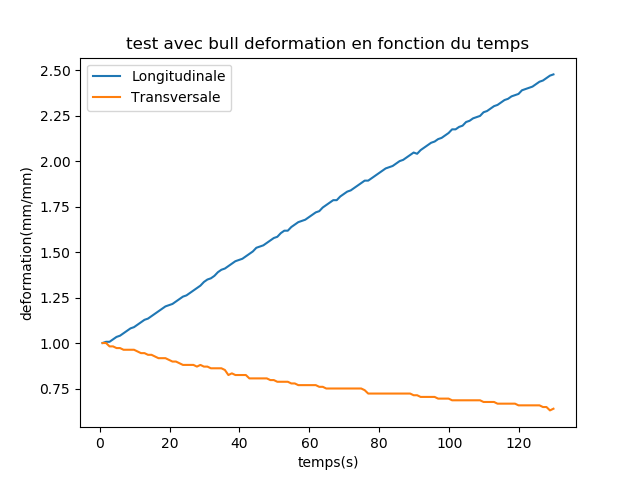
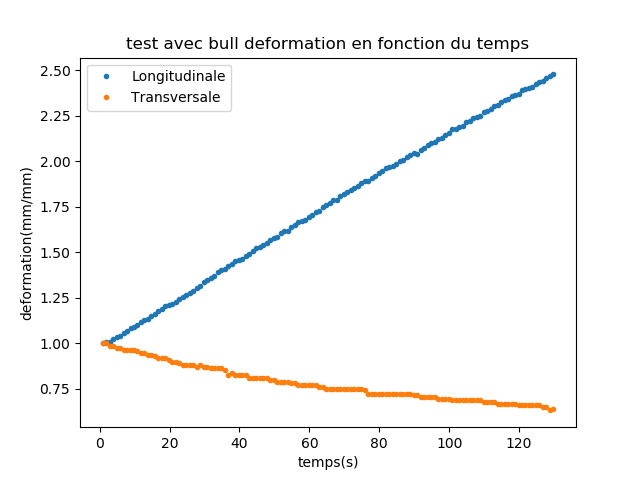
null

diff --git a/utils.py b/utils.py
@@ -32,7 +32,7 @@ config2 = {
     'seuil': 120,
     'path_distance': 'data/avec bulle_distance.csv'
 }
-config = config2
+config = config1
 name = config['name']
 path = config['path']
 path_save = config['path_save']
@@ -42,6 +42,8 @@ ratio_max = config['ratio_max']
 padding_max = config['padding']
 seuil_max = config['seuil']
 path_distance = config['path_distance']
+
+
 def get_data(path):
     data = pd.read_csv(path, sep=',')
     return data
@@ -68,48 +70,20 @@ def generate_gif(path, path_save):
 
 
 def optimize_func(f, x, y):
-    """
-    optimization d'une function
-    :param f: function, la function a fit
-    :param x: np.array, les variables de distances
-    :param y: np.array, les tensions
-    :return:
-    """
     popt, pcov = curve_fit(f, x, y)
     a, b, c, d, e = popt
     return f(x, a, b, c, d, e)
 
 
 def func_D_S(x, a, b, c, d, e):
-    """
-    la function a fit
-    :param x: np.array, les variables de distances
-    :param a: float, coefficient
-    :param b: float, coefficient
-    :param c: float, coefficient
-    :param d: float, coefficient
-    :param e: float, coefficient
-    :param f: float, coefficient
-    :return: np.array, les tensions
-    """
     coe = [a, b, c, d, e]
     res = np.zeros(x.shape)
     for i in range(len(coe)):
         res += np.power(x, i) * coe[i]
     return res
 
+
 def func(x, a, b, c, d, e):
-    """
-    la function a fit
-    :param x: np.array, les variables de distances
-    :param a: float, coefficient
-    :param b: float, coefficient
-    :param c: float, coefficient
-    :param d: float, coefficient
-    :param e: float, coefficient
-    :param f: float, coefficient
-    :return: np.array, les tensions
-    """
     coe = [a, b, c, d, e]
     res = np.zeros(x.shape)
     for i in range(len(coe)):
@@ -306,44 +280,17 @@ def get_axis_char(img, dim=0):
 
 def exp_test(path):
     img = read_img(path)
-
     [x1, x2] = get_axis_char(img, 0)
     img_new = np.zeros(img.shape)
     img_new[800:1200, x1:x2] = 255 - img[800:1200, x1:x2]
     cv2.blur(img, (20, 20))
     img_new[img_new <= seuil_max] = 0
     img_new[img_new > seuil_max] = 1
+    plt.imshow(img_new[800:1200, x1:x2], cmap='gray')
+    plt.title('image filtrée sur ROI ')
+    plt.show()
+    quit()
     return img_new
-
-
-def pre_analyse(img):
-    # show the image to analyse
-    cv2.imshow("test", img)
-    cv2.waitKey()
-
-    # we have decided to analyse acording to the value of each pixel
-    # it's likely that we are going to treat a problem of classification
-    # witch means that we have to decide if this point is "interesting" (ROI)
-    # but first of all i would like to take a look at its distribution
-
-    img_t = 255 - img
-    # attention that we take 1(white) for "there is someting" and 0(black) for
-    # "there is nothing"
-
-    img_s = np.ravel(img_t)
-    plt.hist(img_s, bins=20, label="distribution of value of image")
-    plt.legend()
-    plt.show()
-    # we notice that a pick apearing at about 0, which is reasonable cause we
-    # have a pure background, so we just delete those pixel in the background
-
-    img_show = [pix for pix in img_s if pix > 10]
-    plt.hist(img_show, bins=20, label="distribution of value of image traited")
-    plt.legend()
-    plt.show()
-    img_show[img_show <= 180] = 0
-    img_show[img_show > 180] = 1
-    plt.imshow(img_show, cmap="gray")
 
 
 def get_distance_all(path, path_save):
@@ -352,13 +299,14 @@ def get_distance_all(path, path_save):
     if not os.path.isdir(path):
         print("Not a dir")
         exit()
-    #print(path)
     distance = []
+    #print(path)
     for root, dir, files in os.walk(path):
         for i, img_path in enumerate(sorted(files)[:200]):
-            #print(img_path)
+            print(img_path)
             time = float(img_path[11:-5])
             img_trated = exp_test(os.path.join(path, img_path))
+
             try:
                 img_with_mask = ImgWithMasks(img_trated, get_all_masks(img_trated))
             except IndexError:
@@ -375,7 +323,7 @@ def get_distance_all(path, path_save):
                 distance.append((time, img_with_mask.distance[0], img_with_mask.distance[1]))
                 new_path = img_path[:-5] + '.png'
                 # cv2.imshow("test_fin", final_img[950:1150, :] * 255)
-                #cv2.waitKey(1)
+                # cv2.waitKey(1)
                 cv2.imwrite(os.path.join(path_save, new_path), final_img[950:1150, 150:850] * 255)
     distance = np.array(distance, dtype=[("t", float), ("y", float), ("x", float)])
     distance["x"] /= distance["x"][0]
@@ -388,6 +336,7 @@ def load_pos(path="data\\gr_5_test_2_position.csv"):
     pos = pd.read_csv(path)
     return pos
 
+
 def save_distance(data):
     new_csv = pd.DataFrame(data)
     new_csv.to_csv(path_distance)
@@ -399,8 +348,8 @@ def D_T(data_path='data/test1_distance.csv', name='test1'):
     d_x = data['x']
     d_y = data['y']
     plt.title(name + ' deformation en fonction du temps')
-    plt.plot(x, d_x, label='Longitudinale')
-    plt.plot(x, d_y, label='Transversale')
+    plt.plot(x, d_x, '.', label='Longitudinale')
+    plt.plot(x, d_y, '.', label='Transversale')
     plt.legend()
     plt.xlabel('temps(s)')
     plt.ylabel('deformation(mm/mm)')
@@ -408,28 +357,30 @@ def D_T(data_path='data/test1_distance.csv', name='test1'):
     plt.show()
 
 
-if __name__ == "__main__":
-    # D_T(name='test sans bull')
-    # D_T(data_path='data/test2_distance.csv',name='test avec bull')
-    # quit()
-    # distance = get_distance_all(path, path_save)[:100]
-    distance = get_data(path_distance)[:100]
-    generate_gif(path_save, "test.gif")
-    pos=load_pos()
-    # plt.subplot(1,2,1)
-    '''
-    plt.title("Deformation parmis axis x et axis y en fonction du temps")
-    plt.xlabel("temps/dt")
-    plt.ylabel("deformation (sans unite)")
-    plt.plot(np.arange(len(distance)), distance["x"] - 1, 'y.', label="distance en axis x ")
-    plt.plot(np.arange(len(distance)), optimize_func(func, np.arange(len(distance)), distance['x']) - 1, 'dimgray',
-             label="pediction en aixs x")
+class sort():
+    def __init__(self, a, b):
+        self.a, self.b = [a, b] if a > b else [b, a]
 
-    plt.plot(np.arange(len(distance)), distance["y"] - 1, 'g.', label="distance en axis y ")
-    plt.plot(np.arange(len(distance)), optimize_func(func, np.arange(len(distance)), distance['y']) - 1, 'slategray',
-             label="pediction en aixs y")
-    plt.legend()
-    plt.show()'''
+    def __call__(self, *args, **kwargs):
+        return self.a, self.b
+
+
+def cal_s():
+    return np.array([[1], [2]], dtype=[('x', np.int), ('y', np.int)])
+
+
+if __name__ == "__main__":
+    D_T(data_path='data/sans bulle_distance.csv', name='test sans bull')
+    D_T(data_path='data/avec bulle_distance.csv', name='test avec bull')
+    quit()
+    if os.path.isfile(path_distance):
+        distance = get_data(path_distance)[:130]
+    else:
+        distance = get_distance_all(path, path_save)[:130]
+    if not os.path.isfile(os.path.join(path_save, name + '.gif')):
+        generate_gif(path_save, name + '.gif')
+    pos = load_pos()
+
     temps_p = pos["t(s)"][:-5]
     pos_p = pos[" position1"][:-5]
     pos_p /= pos_p[0]
@@ -437,7 +388,7 @@ if __name__ == "__main__":
     temps = data_force["t(s)"]
     force = data_force[" F(N)"]
     func_f = interp1d(temps, force)
-    force_p =func_f(temps_p)
+    force_p = func_f(temps_p)
     f_inter = func_f(distance["t"])
     plt.title("contraintes - deformation (" + name + ')')
     plt.xlabel("deformation(mm/mm)")
@@ -450,5 +401,5 @@ if __name__ == "__main__":
     plt.plot(distance["x"] - 1, force_curve_1, 'gray', label='fit local longitudinal')
     plt.plot(distance["y"] - 1, force_curve_2, 'b', label='fit local transversal')
     plt.legend()
-    plt.savefig(os.path.join('data', name+'fin.png'))
+    plt.savefig(os.path.join('data', name + 'fin.png'))
     plt.show()

diff --git a/rapport.py b/rapport.py
@@ -1,0 +1,33 @@
+# *_*coding:utf-8 *_*
+import os
+
+import cv2
+import matplotlib.pyplot as plt
+import numpy as np
+
+from utils import config1
+
+
+def plot(config=config1, index=0):
+    name = config['name']
+    path = config['path']
+    files = [os.path.join(path, f) for f in os.listdir(path)]
+    img = cv2.imread(files[index], cv2.COLOR_BGR2GRAY)
+    plt.imshow(img, cmap='gray')
+    plt.title('image originale')
+    plt.show()
+    return img
+
+
+def get_sum(img, axis=0):
+    res = np.sum(img, axis=axis)
+    plt.plot(range(res.size), res)
+    plt.title('sum selon l\'axis {}'.format(axis))
+    plt.xlabel('pixel')
+    plt.ylabel('valeur')
+    plt.show()
+
+
+if __name__ == "__main__":
+    get_sum(plot())
+    get_sum(plot(), 1)
